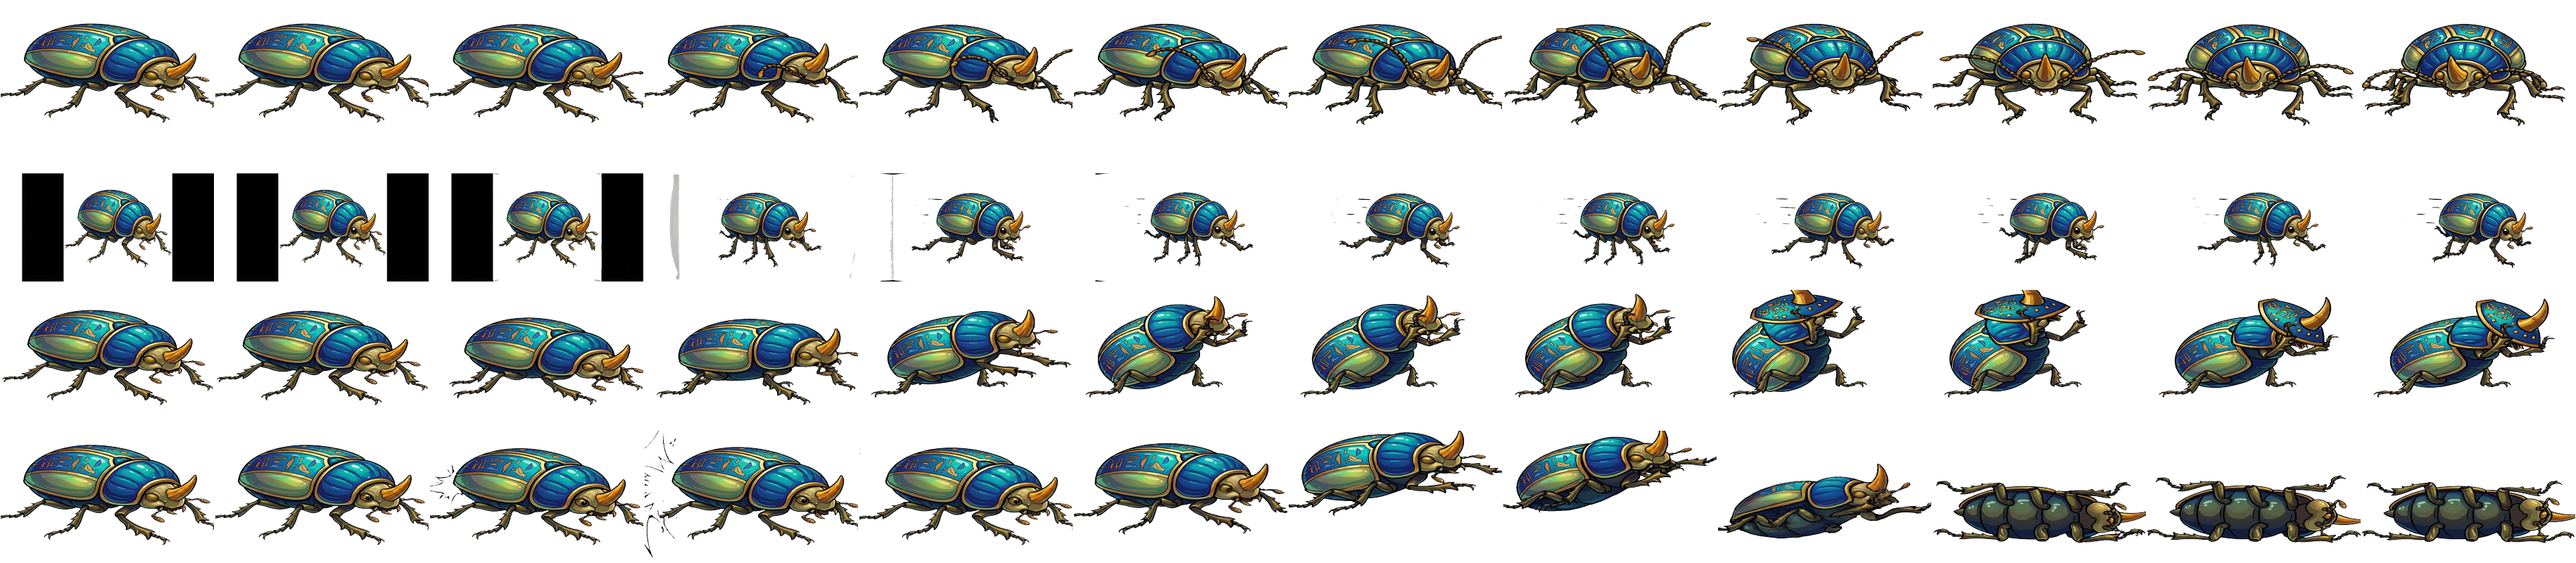
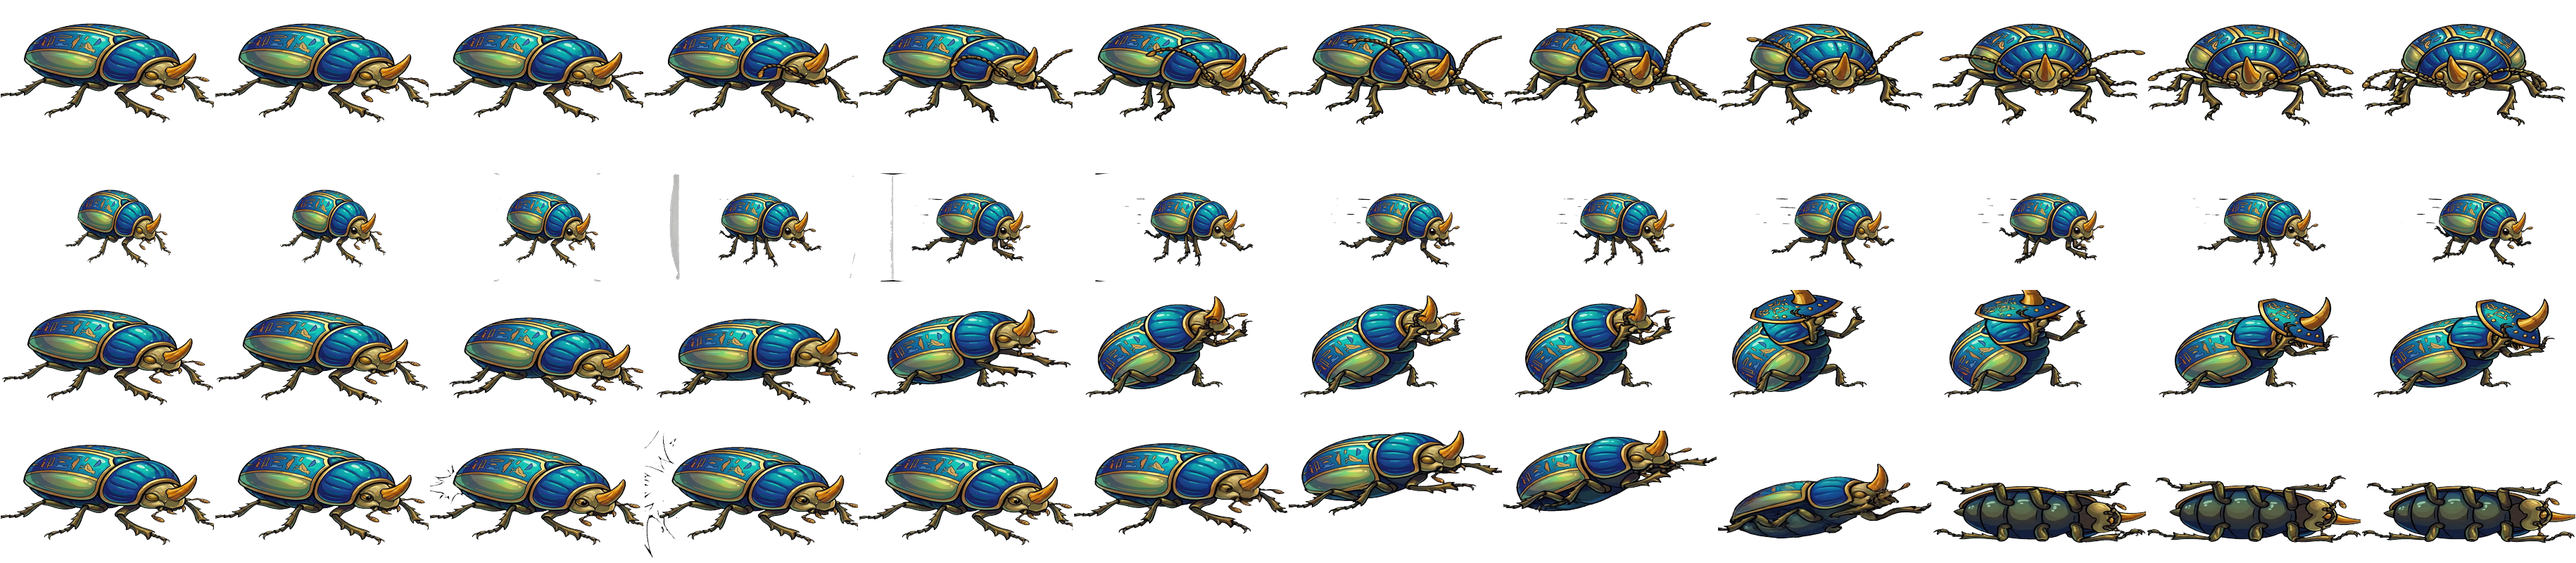
fix(s168): the Kraken's black box — the guard that could not see it, and a second one nobody reported
Owner: "take a look at the kraken, he is moving within a black frame slightly larger than
his body do when he attacks it looks like he gets cut off. also he moves with a black box
frame/background around him. the creature need to be cut out so that he looks like he is
actually integrated within the map right?"

MEASURED, not eyeballed. Opaque near-black across all six bosses and all four states is
2.2-7.1% — the ink outline every cartoon has — except t9boss-nagas ATTACK at 27.0%. Two
solid black bars flank him: veo returned that clip pillarboxed.

⛔ WHY NOTHING CAUGHT IT. build-sprite-atlas.mjs DOES eat letterbox bars, but only when
they are `h >= 0.90*H and w <= 0.15*W`. The Kraken's are 0.84 and 0.21 — they miss by a
little, in the safe direction. And check:atlas looks for near-WHITE pockets, so a near-BLACK
bar was invisible to it. The shape rule cannot simply be loosened: this file already records
S152, where keying on mere edge contact deleted whole characters, because a cartoon's ink
outline is ALSO near-black and is ONE connected component.

⭐ THE NEW RULE IS A COLUMN SCAN, and the discriminator is not a tuned threshold. Walking
inward from each edge, a column is letterbox while >=50% of its OPAQUE pixels are near-black
AND it covers >=75% of the cell height. Across all 48 shipped atlases, 46 score EXACTLY 0.
The two that do not score 53,703 and 414,481.

⭐⭐ AND THE SECOND ONE WAS NEVER REPORTED — t3-mummies-scarab WALK. The owner named only the
[…]

Changed region(s): [[0.0623, 0.2812, 0.2492, 0.5], [0.0, 0.3125, 0.0311, 0.5]]

diff --git a/scripts/repair-atlas-letterbox.py b/scripts/repair-atlas-letterbox.py
@@ -1,0 +1,151 @@
+#!/usr/bin/env python3
+"""SPARK — S168 P9 — REMOVE A SURVIVING VEO LETTERBOX FROM A SHIPPED SPRITE ATLAS.
+
+## ⛔ Why this exists
+
+Owner, on the live build: *"take a look at the kraken, he is moving within a black frame slightly
+larger than his body do when he attacks it looks like he gets cut off. also he moves with a black box
+frame/background around him. the creature need to be cut out so that he looks like he is actually
+integrated within the map right?"*
+
+He was looking at exactly one row of one atlas. Measured across all six bosses and all four states,
+the opaque near-black fraction is 2.2–7.1 % everywhere — the ink outlines every cartoon has — except
+`t9boss-nagas` ATTACK, which is **27 %**. Two perfectly solid black bars flank the Kraken in that
+row: veo returned the attack clip pillarboxed.
+
+## ⭐ Why the existing matte missed it, and why this does not just loosen that rule
+
+`build-sprite-atlas.mjs` already kills border-connected near-black *"ONLY WHEN IT IS SHAPED LIKE A
+BAR"*, and its own docblock explains, at length, why the shape test is there: S152 keyed on mere edge
+contact, and since a cartoon's INK OUTLINE is also near-black and is ONE connected component, that
+erased entire characters. The shape test is `h >= 0.90*H and w <= 0.15*W`.
+
+The Kraken's bars are **0.84 of the height and 0.21 of the width**. They fail both halves, by a
+little, in the safe direction — so nothing fired.
+
+⛔ **The fix is NOT to widen those thresholds**, which is precisely the S152 trap. It is to test the
+property that actually distinguishes a letterbox from linework: **SOLIDITY**. A letterbox bar fills
+its own bounding box completely; a character's outline is a sprawling skeleton that fills almost none
+of it. Measured on the real atlas:
+
+    ATTACK cell 0  bar          28512 px   bbox 269x106   fill 1.00   <- letterbox
+    ATTACK cell 0  bar          28245 px   bbox 269x105   fill 1.00   <- letterbox
+    ATTACK cell 7  tentacle ink  5258 px   bbox 269x116   fill 0.17   <- MUST SURVIVE
+    ATTACK cell 7  tentacle ink  1938 px   bbox  68x 69   fill 0.41   <- MUST SURVIVE
+    IDLE / WALK / DIE            no border-connected dark component at all
+
+1.00 against 0.41 is not a threshold that needs tuning. `SOLID_FILL_MIN = 0.90` sits in a gap wider
+than either side of it.
+
+## What it does
+
+Per CELL (not per atlas — the grid comes from the `-anim.json` beside the png), find near-black
+components that touch the cell border, keep only those that are both SOLID and LARGE, and clear their
+alpha. Everything else is left byte-identical, which the caller is expected to verify.
+
+Run from the repo root:
+
+    python scripts/repair-atlas-letterbox.py public/art/race-tier9-bosses/t9boss-nagas-atlas.png
+    python scripts/repair-atlas-letterbox.py --dry-run <path>...
+
+Needs the pixel toolchain: pip install numpy scipy Pillow
+"""
+from __future__ import annotations
+
+import json
+import sys
+from pathlib import Path
+
+try:
+    import numpy as np
+    from PIL import Image
+    from scipy import ndimage
+except ModuleNotFoundError as exc:  # pragma: no cover - environment guard
+    # Same contract as check-atlas-scenery.mjs: exit 3 with ONE line, never a stack trace, so a
+    # runner without the toolchain reports a missing dependency rather than looking like a defect.
+    print(f"[repair-atlas] missing pixel toolchain ({exc.name}) — pip install numpy scipy Pillow")
+    raise SystemExit(3)
+
+# A pixel this dark is letterbox-CANDIDATE. Same threshold build-sprite-atlas.mjs uses, deliberately:
+# two files disagreeing about what "near-black" means is how the next one of these hides.
+DARK_MAX = 42
+# Fraction of its own bounding box a component must fill to count as a BAR rather than as linework.
+# Measured gap: bars 1.00, the worst surviving ink 0.41.
+SOLID_FILL_MIN = 0.90
+# And it must be big. A solid 3x3 speck touching the edge is not a letterbox.
+MIN_CELL_FRACTION = 0.01
+
+
+def repair_atlas(png: Path, dry_run: bool) -> int:
+    """Returns the number of pixels cleared (0 = the atlas was already clean)."""
+    meta_path = png.with_name(png.name.replace("-atlas.png", "-anim.json"))
+    if not meta_path.exists():
+        print(f"  SKIP  {png} — no {meta_path.name} beside it, so the cell grid is unknown")
+        return 0
+
+    meta = json.loads(meta_path.read_text(encoding="utf-8"))
+    cw, chh = int(meta["cellW"]), int(meta["cellH"])
+    img = Image.open(png).convert("RGBA")
+    a = np.array(img)
+    height, width = a.shape[0], a.shape[1]
+    cols, rows = width // cw, height // chh
+    cell_area = cw * chh
+
+    row_of = {int(v["row"]): k for k, v in meta["states"].items() if "row" in v}
+    cleared_total = 0
+
+    for r in range(rows):
+        cleared_row = 0
+        for c in range(cols):
+            y0, x0 = r * chh, c * cw
+            cell = a[y0 : y0 + chh, x0 : x0 + cw]
+            rgb, alpha = cell[..., :3], cell[..., 3]
+            dark = (rgb.max(axis=2) < DARK_MAX) & (alpha > 0)
+            if not dark.any():
+                continue
+            lab, _ = ndimage.label(dark)
+            border = set(
+                np.unique(np.concatenate([lab[0, :], lab[-1, :], lab[:, 0], lab[:, -1]]))
+            )
+            border.discard(0)
+            for i in border:
+                ys, xs = np.nonzero(lab == i)
+                px = ys.size
+                if px < MIN_CELL_FRACTION * cell_area:
+                    continue
+                bbox = (ys.max() - ys.min() + 1) * (xs.max() - xs.min() + 1)
+                if px / bbox < SOLID_FILL_MIN:
+                    continue  # linework, not a letterbox — this is the S152 lesson
+                if not dry_run:
+                    cell[..., 3][lab == i] = 0
+                cleared_row += px
+        if cleared_row:
+            name = row_of.get(r, f"row{r}")
+            print(f"  {'would clear' if dry_run else 'cleared'} {cleared_row:>8,} px  in {name}")
+            cleared_total += cleared_row
+
+    if cleared_total and not dry_run:
+        Image.fromarray(a, "RGBA").save(png)
+    return cleared_total
+
+
+def main(argv: list[str]) -> int:
+    dry_run = "--dry-run" in argv
+    targets = [Path(x) for x in argv if not x.startswith("--")]
+    if not targets:
+        print(__doc__)
+        return 2
+    total = 0
+    for png in targets:
+        print(f"[repair-atlas] {png}")
+        if not png.exists():
+            print("  MISSING")
+            return 2
+        total += repair_atlas(png, dry_run)
+    verb = "would clear" if dry_run else "cleared"
+    print(f"[repair-atlas] {verb} {total:,} px in total")
+    return 0
+
+
+if __name__ == "__main__":
+    raise SystemExit(main(sys.argv[1:]))
